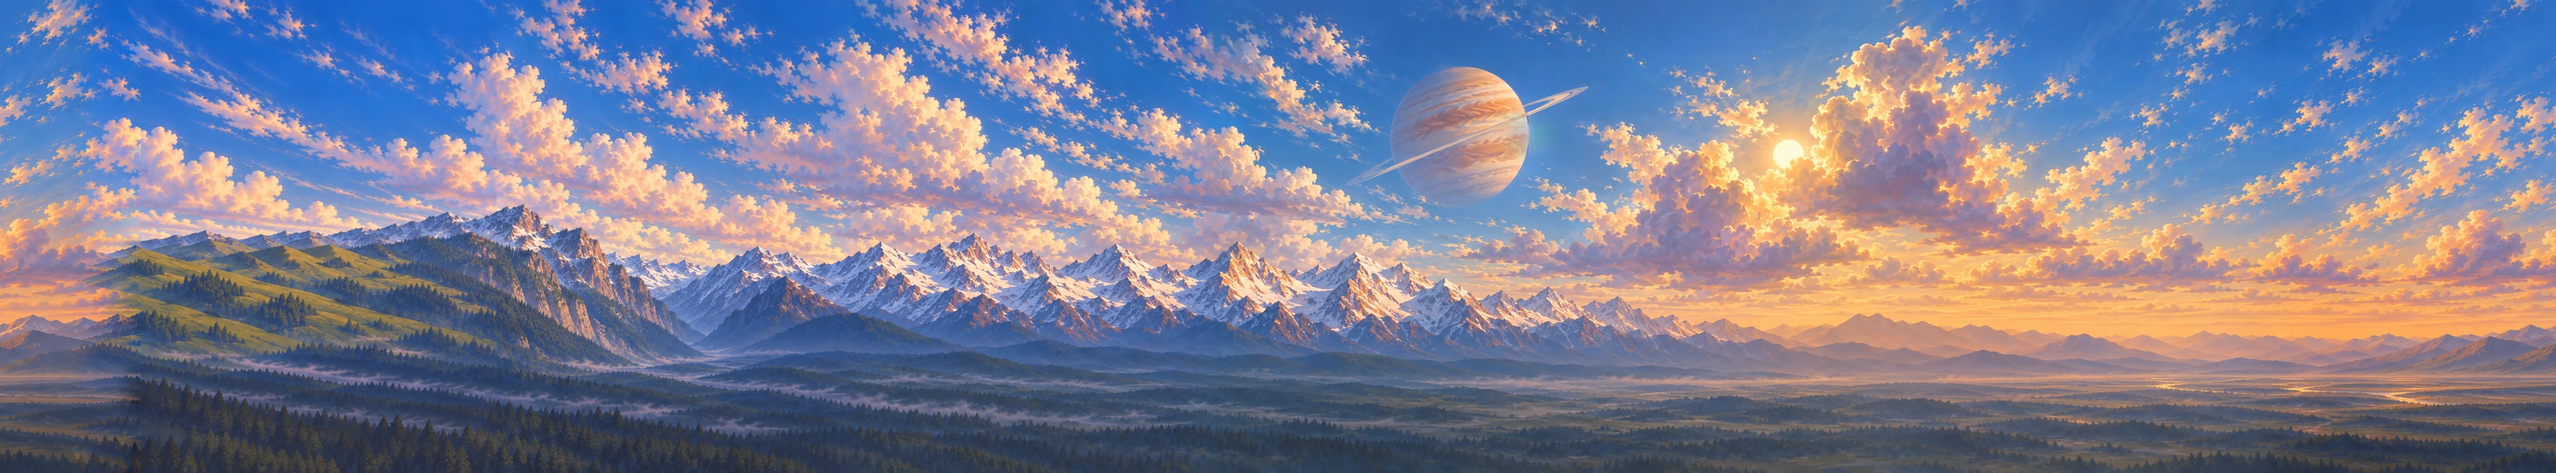
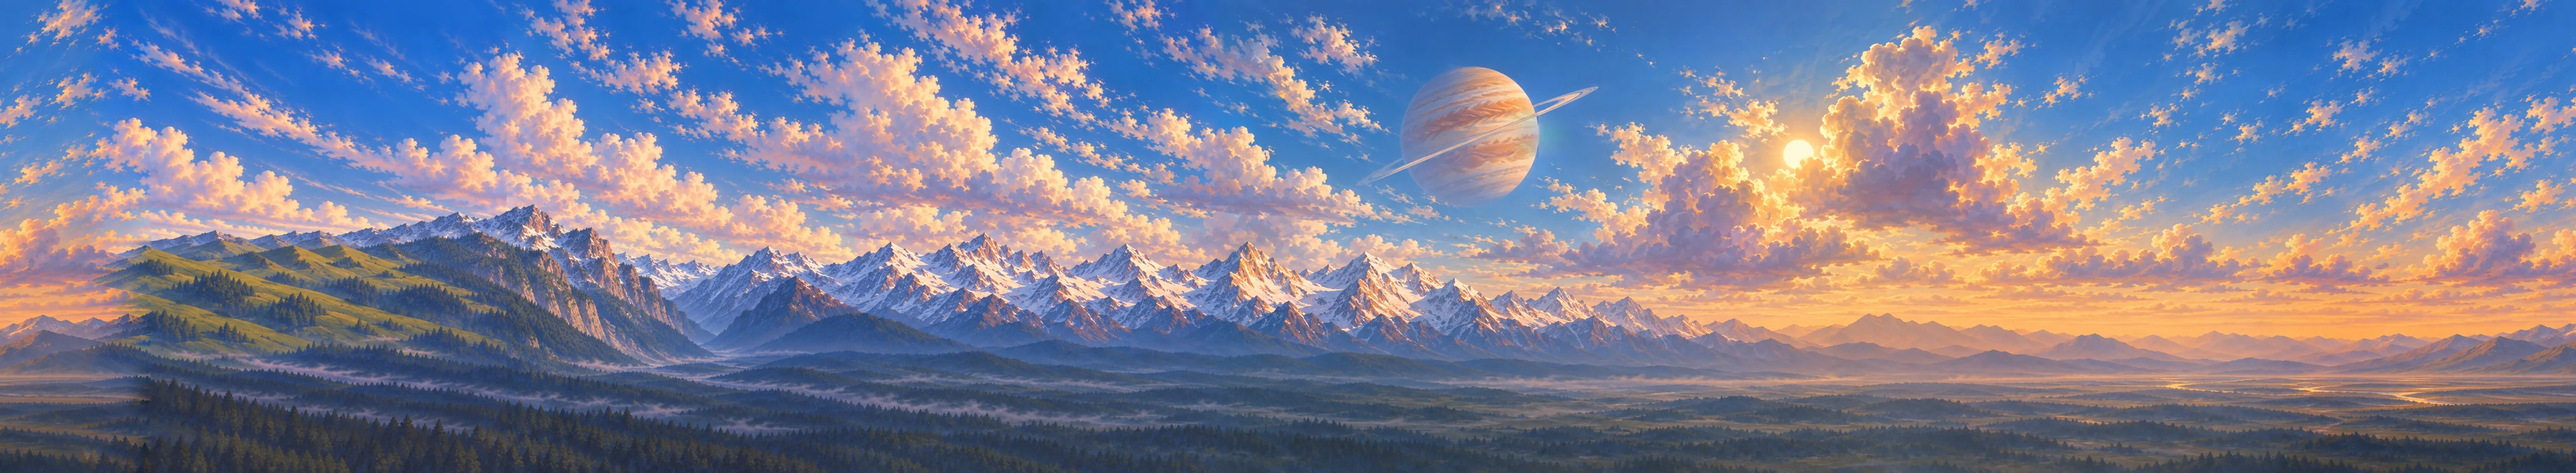
NALATI-MERGE L4: the 1-px seam due north in the painted panorama is gone
The wrap's two edge columns never matched: the gain ramp in scripts/nalati-panorama.py only evened the brightness
(row-blurred), the phone strip's plain LANCZOS resize filtered both edges against nothing (a fresh step: 4.9 levels vs
~1.9 elsewhere), and the lossy codec encodes an image's edge blocks on their own. Now:
- the wrap's edge columns are re-drawn between their neighbours (like every stitched seam), after the ridge / fog data
  are written (panoramaData.ts unchanged);
- the phone strip is resized as a loop;
- both strips carry 16 columns of the other end on either side, and sky.ts samples the inner strip only; over the pad's
  width either side of north every tap (the crisp textureGrad one and the blurred ones: the land haze, the sky top)
  cross-fades into the other copy, half-and-half at north itself, so both sides of the jump read the very same texels
  at every mip (the NPOT mip chain's rounding left a step in the land haze on the phone otherwise).
Measured at a 6 degree zoom due north (phone): the column step at north 0.70 over a 13-px band -> 0.15 (the rest of the
frame 0.10-0.13); desktop 40 degree view 2.64 -> 1.10 (median 1.09). progress/nalati-merge/look-lab/seam-north.jpg.
Boot tables regenerated for the two new files.

Claude-Session: https://claude.ai/code/session_01BqLJr4UZ4KhupcxueyDMyo

diff --git a/src/nalati/look/sky.ts b/src/nalati/look/sky.ts
@@ -7,7 +7,11 @@
  * the slice seams and writes the horizon / ridge / fog data in panoramaData.ts):
  *
  *   u = compass azimuth `atan(-d.x, d.z)` (0 = north = +z, 0.25 = east = −x — the PaintedBackdrop convention), sampled
- *       with textureGrad on whichever azimuth branch is continuous, so the u = 0 / 1 wrap has no mip seam;
+ *       with textureGrad on whichever azimuth branch is continuous, so the u = 0 / 1 wrap has no mip seam. The strip
+ *       carries PANO_PAD_PX columns of the other end on either side (the lossy codec encodes an image's edge columns
+ *       on their own: the bare wrap showed a 1-px seam due north, NALATI-MERGE L4), so the crisp tap reads the inner
+ *       strip only, and over the pad's width either side of north every tap cross-fades into the other copy (half-and-half
+ *       at north itself, so both sides of the jump read the very same texels, at every mip);
  *   v = the painted horizon row at elevation `uElShift`, linear in elevation at the strip's own 15.36 px / degree;
  *   up:   from +30° the painting eases into its own top rows blurred per azimuth (textureLod), and those converge on one
  *         zenith colour straight up — a 20° + 40° band, colour-matched, so there is no line anywhere;
@@ -28,6 +32,8 @@ import { HORIZON_BLEND } from './fog';
 
 /** inside the camera's far plane (2600) with room; the vertex shader puts it at the far plane anyway */
 const R = 2300;
+/** the columns of wrap each strip carries on either side (scripts/nalati-panorama.py PANO_PAD) */
+const PANO_PAD_PX = 16;
 const D2R = Math.PI / 180;
 /** the painted sun (compass 250°, 26° up — the def's own sun, README of round-6) */
 const PAINTED_SUN = new THREE.Vector3(-Math.sin(250 * D2R) * Math.cos(26 * D2R), Math.sin(26 * D2R), Math.cos(250 * D2R) * Math.cos(26 * D2R));
@@ -47,6 +53,7 @@ const FRAG = /* glsl */`
   uniform sampler2D tRidge;
   uniform sampler2D tFogLut;
   uniform float uHorizonV;
+  uniform float uPad;
   uniform float uVPerDeg;
   uniform float uElShift;
   uniform vec3 uZenith;
@@ -55,6 +62,11 @@ const FRAG = /* glsl */`
   uniform float uNight;
   uniform float uLandHaze;
   varying vec3 vDir;
+  // a blurred tap (explicit mip), cross-faded into the other copy at north like the crisp one
+  vec3 panoLod(float u, float uX, float wX, float v, float lod) {
+    vec3 c = textureLod(tPano, vec2(u, v), lod).rgb;
+    return wX > 0.0 ? mix(c, textureLod(tPano, vec2(uX, v), lod).rgb, wX) : c;
+  }
   void main() {
     vec3 d = normalize(vDir);
     float el = degrees(asin(clamp(d.y, -1.0, 1.0)));
@@ -64,12 +76,23 @@ const FRAG = /* glsl */`
     float azB = fract(az + 0.5) - 0.5;
     vec2 gA = vec2(dFdx(az), dFdy(az)), gB = vec2(dFdx(azB), dFdy(azB));
     vec2 g = dot(gA, gA) < dot(gB, gB) ? gA : gB;
-    float u = fract(az);
+    // every tap reads the inner strip (inside the pads), and over the pad's width either side of north it also reads the
+    // other copy of those columns, half-and-half at north itself, so both sides of the jump show the very same texels
+    // (the copies differ by the codec's noise, and their mips by the NPOT mip chain's rounding)
+    float uLoop = fract(az);
+    float uSpan = 1.0 - 2.0 * uPad;
+    float u = uPad + uLoop * uSpan;
+    g *= uSpan;
+    float edge = uPad / uSpan;
+    float wR = smoothstep(1.0 - edge, 1.0, uLoop), wL = smoothstep(edge, 0.0, uLoop);
+    float wX = 0.5 * (wR + wL), uX = wR > 0.0 ? u - uSpan : u + uSpan;
     vec2 dv = vec2(dFdx(el), dFdy(el)) * uVPerDeg;
-    vec3 c = textureGrad(tPano, vec2(u, clamp(v, 0.002, 0.998)), vec2(g.x, dv.x), vec2(g.y, dv.y)).rgb;
+    float vc = clamp(v, 0.002, 0.998);
+    vec3 c = textureGrad(tPano, vec2(u, vc), vec2(g.x, dv.x), vec2(g.y, dv.y)).rgb;
+    if (wX > 0.0) c = mix(c, textureGrad(tPano, vec2(uX, vc), vec2(g.x, dv.x), vec2(g.y, dv.y)).rgb, wX);
     // up: into the strip's own top rows, blurred per azimuth, then one zenith colour
     float elTop = (1.0 - uHorizonV) / uVPerDeg + uElShift;     // where the painting ends (~ +52°)
-    vec3 top = textureLod(tPano, vec2(u, 0.985), 9.0).rgb;
+    vec3 top = panoLod(u, uX, wX, 0.985, 9.0);
     c = mix(c, top, smoothstep(elTop - 22.0, elTop - 1.0, el));
     c = mix(c, uZenith, smoothstep(elTop - 10.0, 80.0, el));
     c = v2Ungrade(c);
@@ -85,9 +108,9 @@ const FRAG = /* glsl */`
     float ridgeEl = (ridgeV - uHorizonV) / uVPerDeg + uElShift;
     float land = uLandHaze * (1.0 - smoothstep(ridgeEl - 0.5, ridgeEl + 1.5, el));
     float foot = smoothstep(ridgeEl + 1.0, -1.5, el);
-    vec3 soft = v2Ungrade(textureLod(tPano, vec2(u, clamp(v, 0.002, 0.998)), 3.5).rgb);
+    vec3 soft = v2Ungrade(panoLod(u, uX, wX, vc, 3.5));
     c = mix(c, soft, land * 0.7 * foot);
-    vec3 skyH = v2Ungrade(textureLod(tPano, vec2(u, clamp(ridgeV + 0.035, 0.002, 0.998)), 6.0).rgb);
+    vec3 skyH = v2Ungrade(panoLod(u, uX, wX, clamp(ridgeV + 0.035, 0.002, 0.998), 6.0));
     c = mix(c, skyH, land * (0.15 + 0.38 * foot));
     c = mix(c, fogC, land * 0.9 * smoothstep(0.5, -3.0, el));
     // the painted sun dims as the clock moves the real one away from it
@@ -115,14 +138,14 @@ export class SkyDomeV2 {
   readonly mesh: THREE.Mesh;
   readonly uniforms: {
     tPano: { value: THREE.Texture }; tRidge: { value: THREE.Texture }; tFogLut: { value: THREE.Texture };
-    uHorizonV: { value: number }; uVPerDeg: { value: number }; uElShift: { value: number }; uLandHaze: { value: number };
+    uHorizonV: { value: number }; uPad: { value: number }; uVPerDeg: { value: number }; uElShift: { value: number }; uLandHaze: { value: number };
     uZenith: { value: THREE.Color }; uSunNow: { value: THREE.Vector3 }; uSunPainted: { value: THREE.Vector3 }; uNight: { value: number };
   };
 
-  private constructor(tex: THREE.Texture, fogLut: THREE.Texture, zenith: THREE.Color) {
+  private constructor(tex: THREE.Texture, width: number, fogLut: THREE.Texture, zenith: THREE.Color) {
     this.uniforms = {
       tPano: { value: tex }, tRidge: { value: ridgeTexture() }, tFogLut: { value: fogLut },
-      uHorizonV: { value: PANO_HORIZON_V }, uVPerDeg: { value: 1 / PANO_DEG_PER_V }, uElShift: { value: 0 }, uLandHaze: { value: HORIZON_BLEND ? 1 : 0 },
+      uHorizonV: { value: PANO_HORIZON_V }, uPad: { value: PANO_PAD_PX / Math.max(1, width) }, uVPerDeg: { value: 1 / PANO_DEG_PER_V }, uElShift: { value: 0 }, uLandHaze: { value: HORIZON_BLEND ? 1 : 0 },
       uZenith: { value: zenith }, uSunNow: { value: PAINTED_SUN.clone() }, uSunPainted: { value: PAINTED_SUN.clone() }, uNight: { value: 0 },
     };
     const mat = new THREE.ShaderMaterial({
@@ -167,6 +190,6 @@ export class SkyDomeV2 {
         zenith.setRGB(r / n / 255, gg / n / 255, b / n / 255, THREE.SRGBColorSpace);
       }
     } catch { /* keep the default */ }
-    return new SkyDomeV2(tex, fogLut, zenith);
+    return new SkyDomeV2(tex, image.width, fogLut, zenith);
   }
 }

diff --git a/src/boot/packs.generated.ts b/src/boot/packs.generated.ts
@@ -106,8 +106,8 @@ export const PACKS: Readonly<Record<string, Readonly<Record<string, PackDef>>>> 
   },
   "nalati-grasslands": {
     "phone": {
-      url: "/assets/packs/nalati-grasslands.phone-76edc5ca.bin",
-      bytes: 4742572,
+      url: "/assets/packs/nalati-grasslands.phone-884e4f18.bin",
+      bytes: 4745878,
       files: [
         ["/assets/baked/nalati-grasslands/terrain.bin",0,539522,"application/octet-stream"],
         ["/assets/nalati/tex/meadow.phone.webp",539522,109540,"image/webp"],
@@ -117,29 +117,29 @@ export const PACKS: Readonly<Record<string, Readonly<Record<string, PackDef>>>> 
         ["/assets/nalati/tex/snow.phone.webp",942538,51752,"image/webp"],
         ["/assets/nalati/tex/felt.phone.webp",994290,62218,"image/webp"],
         ["/assets/nalati/cards.phone.webp",1056508,318112,"image/webp"],
-        ["/assets/nalati/panorama.phone.webp",1374620,439852,"image/webp"],
-        ["/assets/nalati/models/eagle.phone.glb",1814472,158760,"model/gltf-binary"],
-        ["/assets/nalati/models/cauldron.phone.glb",1973232,99288,"model/gltf-binary"],
-        ["/assets/nalati/models/firewood.phone.glb",2072520,121408,"model/gltf-binary"],
-        ["/assets/nalati/models/kumis-churn.phone.glb",2193928,107344,"model/gltf-binary"],
-        ["/assets/nalati/models/chest.phone.glb",2301272,104028,"model/gltf-binary"],
-        ["/assets/nalati/models/saddle.phone.glb",2405300,108832,"model/gltf-binary"],
-        ["/assets/nalati/models/balbal.phone.glb",2514132,80628,"model/gltf-binary"],
-        ["/assets/nalati/models/boulder-1.phone.glb",2594760,33672,"model/gltf-binary"],
-        ["/assets/nalati/models/boulder-2.phone.glb",2628432,24844,"model/gltf-binary"],
-        ["/assets/nalati/models/boulder-3.phone.glb",2653276,25216,"model/gltf-binary"],
-        ["/assets/nalati/models/watchtower.phone.glb",2678492,99376,"model/gltf-binary"],
-        ["/assets/nalati/models/snow-lotus.phone.glb",2777868,163120,"model/gltf-binary"],
-        ["/assets/nalati/models/horse-saddled.phone.glb",2940988,146840,"model/gltf-binary"],
-        ["/assets/nalati/models/kokpar-rider.phone.glb",3087828,170376,"model/gltf-binary"],
-        ["/assets/nalati/models/horse-wild.far.glb",3258204,6012,"model/gltf-binary"],
-        ["/assets/nalati/models/kokpar-rider.far.glb",3264216,7504,"model/gltf-binary"],
-        ["/assets/nalati/models/horse-wild.phone.rigged.glb",3271720,239292,"model/gltf-binary"],
-        ["/assets/nalati/models/horse-saddled.phone.rigged.glb",3511012,263288,"model/gltf-binary"],
-        ["/assets/nalati/models/wolf.phone.rigged.glb",3774300,250312,"model/gltf-binary"],
-        ["/assets/nalati/models/snow-leopard.phone.rigged.glb",4024612,379916,"model/gltf-binary"],
-        ["/assets/nalati/models/sheep.phone.rigged.glb",4404528,154692,"model/gltf-binary"],
-        ["/assets/nalati/models/eagle.phone.rigged.glb",4559220,183352,"model/gltf-binary"],
+        ["/assets/nalati/panorama.phone.webp",1374620,443158,"image/webp"],
+        ["/assets/nalati/models/eagle.phone.glb",1817778,158760,"model/gltf-binary"],
+        ["/assets/nalati/models/cauldron.phone.glb",1976538,99288,"model/gltf-binary"],
+        ["/assets/nalati/models/firewood.phone.glb",2075826,121408,"model/gltf-binary"],
+        ["/assets/nalati/models/kumis-churn.phone.glb",2197234,107344,"model/gltf-binary"],
+        ["/assets/nalati/models/chest.phone.glb",2304578,104028,"model/gltf-binary"],
+        ["/assets/nalati/models/saddle.phone.glb",2408606,108832,"model/gltf-binary"],
+        ["/assets/nalati/models/balbal.phone.glb",2517438,80628,"model/gltf-binary"],
+        ["/assets/nalati/models/boulder-1.phone.glb",2598066,33672,"model/gltf-binary"],
+        ["/assets/nalati/models/boulder-2.phone.glb",2631738,24844,"model/gltf-binary"],
+        ["/assets/nalati/models/boulder-3.phone.glb",2656582,25216,"model/gltf-binary"],
+        ["/assets/nalati/models/watchtower.phone.glb",2681798,99376,"model/gltf-binary"],
+        ["/assets/nalati/models/snow-lotus.phone.glb",2781174,163120,"model/gltf-binary"],
+        ["/assets/nalati/models/horse-saddled.phone.glb",2944294,146840,"model/gltf-binary"],
+        ["/assets/nalati/models/kokpar-rider.phone.glb",3091134,170376,"model/gltf-binary"],
+        ["/assets/nalati/models/horse-wild.far.glb",3261510,6012,"model/gltf-binary"],
+        ["/assets/nalati/models/kokpar-rider.far.glb",3267522,7504,"model/gltf-binary"],
+        ["/assets/nalati/models/horse-wild.phone.rigged.glb",3275026,239292,"model/gltf-binary"],
+        ["/assets/nalati/models/horse-saddled.phone.rigged.glb",3514318,263288,"model/gltf-binary"],
+        ["/assets/nalati/models/wolf.phone.rigged.glb",3777606,250312,"model/gltf-binary"],
+        ["/assets/nalati/models/snow-leopard.phone.rigged.glb",4027918,379916,"model/gltf-binary"],
+        ["/assets/nalati/models/sheep.phone.rigged.glb",4407834,154692,"model/gltf-binary"],
+        ["/assets/nalati/models/eagle.phone.rigged.glb",4562526,183352,"model/gltf-binary"],
       ],
     },
   },

diff --git a/src/boot/versions.generated.ts b/src/boot/versions.generated.ts
@@ -62,8 +62,8 @@ export const ASSET_VERSIONS: Readonly<Record<string, string>> = {
   "/assets/nalati/models/wolf.rigged.glb": '6f9f1f0e',
   "/assets/nalati/models/yurt.glb": 'a07f0009',
   "/assets/nalati/models/yurt.phone.glb": 'e3a55ca5',
-  "/assets/nalati/panorama.phone.webp": '409e928f',
-  "/assets/nalati/panorama.webp": '8837c206',
+  "/assets/nalati/panorama.phone.webp": '00486151',
+  "/assets/nalati/panorama.webp": 'b3ce2201',
   "/assets/nalati/sourced/CREDITS.md": '1389f4d6',
   "/assets/nalati/sourced/animals/deer.glb": '7abf710f',
   "/assets/nalati/sourced/animals/dog-husky.glb": '1578d458',

diff --git a/src/boot/bytes.generated.ts b/src/boot/bytes.generated.ts
@@ -347,8 +347,8 @@ export const PUBLIC_BYTES = {
   "/assets/nalati/models/wolf.rigged.glb": 480660,
   "/assets/nalati/models/yurt.glb": 164528,
   "/assets/nalati/models/yurt.phone.glb": 100948,
-  "/assets/nalati/panorama.phone.webp": 439852,
-  "/assets/nalati/panorama.webp": 762224,
+  "/assets/nalati/panorama.phone.webp": 443158,
+  "/assets/nalati/panorama.webp": 766800,
   "/assets/nalati/sourced/CREDITS.md": 5668,
   "/assets/nalati/sourced/animals/deer.glb": 254020,
   "/assets/nalati/sourced/animals/dog-husky.glb": 243472,

diff --git a/scripts/nalati-panorama.py b/scripts/nalati-panorama.py
@@ -10,7 +10,9 @@ Two things happen before the encode:
    colour step down the whole height, x ≈ 1842 and 4914). Each is found as a column whose mean step is far above the
    median, then removed with a gain ramp (and the 1-px line a feathered join leaves is re-drawn from its neighbours): per channel, per row band (blurred vertically), the ratio across the seam is
    split half / half and eased out over ±SEAM_W px on each side — no step, no visible band.
-2. **The wrap.** Column 0 and column W−1 are made continuous the same way (the dome samples with RepeatWrapping).
+2. **The wrap.** Column 0 and column W−1 are made continuous the same way, then re-drawn between their neighbours; each
+   written strip carries PANO_PAD columns of the other end on either side (the lossy codec encodes an image's edges on
+   their own: an unpadded wrap came back with a 1-px step due north), and the phone strip is resized as a loop.
 
 Desktop keeps the native 5530 px (no upscale), the phone gets 4096 px. Both sRGB WebP.
 
@@ -28,6 +30,7 @@ from PIL import Image
 ROOT = os.path.abspath(os.path.join(os.path.dirname(__file__), '..'))
 SRC = os.path.join(ROOT, 'art/nalati-grasslands/round-6-panorama/panorama-5530x1024.jpg')
 OUT = os.path.join(ROOT, 'public/assets/nalati')
+PANO_PAD = 16         # px of wrap copied onto each side of the written strips (sky.ts PANO_PAD_PX)
 SEAM_W = 90          # px each side the gain ramp spans
 ROW_BLUR = 24        # rows: the per-row ratio is smoothed this much (a seam's step varies slowly with height)
 
@@ -162,12 +165,33 @@ def main() -> None:
     after = find_seams(a)
     print('left after repair:', after)
     write_data(a)
+    # the wrap's own 1-px line (NALATI-MERGE L4: a thin vertical seam due north when zoomed): the gain ramp above only
+    # matches the brightness either side, row-blurred, so the two edge columns kept their own per-row step. Re-draw them
+    # between their neighbours, like every stitched seam (after write_data: the ridge / fog data stay as they were)
+    deline(a, a.shape[1] - 1)
     out = Image.fromarray(np.clip(a + 0.5, 0, 255).astype(np.uint8))
     os.makedirs(OUT, exist_ok=True)
     desk = os.path.join(OUT, 'panorama.webp')
     phone = os.path.join(OUT, 'panorama.phone.webp')
-    out.save(desk, 'WEBP', quality=86, method=6)
-    out.resize((4096, round(4096 * out.height / out.width)), Image.LANCZOS).save(phone, 'WEBP', quality=84, method=6)
+    # the phone strip: resized as a LOOP (half the strip wrapped onto either side, resized, cropped back) — a plain
+    # LANCZOS resize filters the two edges against nothing, which put a fresh step at the wrap
+    W, H = out.size
+    PW, PH = 4096, round(4096 * H / W)
+    half = W // 2
+    wide = Image.new('RGB', (W + 2 * half, H))
+    wide.paste(out.crop((W - half, 0, W, H)), (0, 0)); wide.paste(out, (half, 0)); wide.paste(out.crop((0, 0, half, H)), (W + half, 0))
+    k = PW / W
+    big = wide.resize((round(wide.width * k), PH), Image.LANCZOS)
+    x0 = round(half * k)
+    small = big.crop((x0, 0, x0 + PW, PH))
+    # both files carry PANO_PAD columns of the other end on either side: the lossy codec treats an image's edge blocks
+    # on their own, so a strip whose 0° / 360° columns ARE its edges comes back with a step between them however clean
+    # it went in. With the pad the wrap sits inside the image on both sides (sky.ts samples the inner strip only)
+    for img, path, q in ((out, desk, 86), (small, phone, 84)):
+        w, h = img.size
+        padded = Image.new('RGB', (w + 2 * PANO_PAD, h))
+        padded.paste(img.crop((w - PANO_PAD, 0, w, h)), (0, 0)); padded.paste(img, (PANO_PAD, 0)); padded.paste(img.crop((0, 0, PANO_PAD, h)), (w + PANO_PAD, 0))
+        padded.save(path, 'WEBP', quality=q, method=6)
     for p in (desk, phone):
         print(p, os.path.getsize(p) // 1024, 'KB', Image.open(p).size)
 
